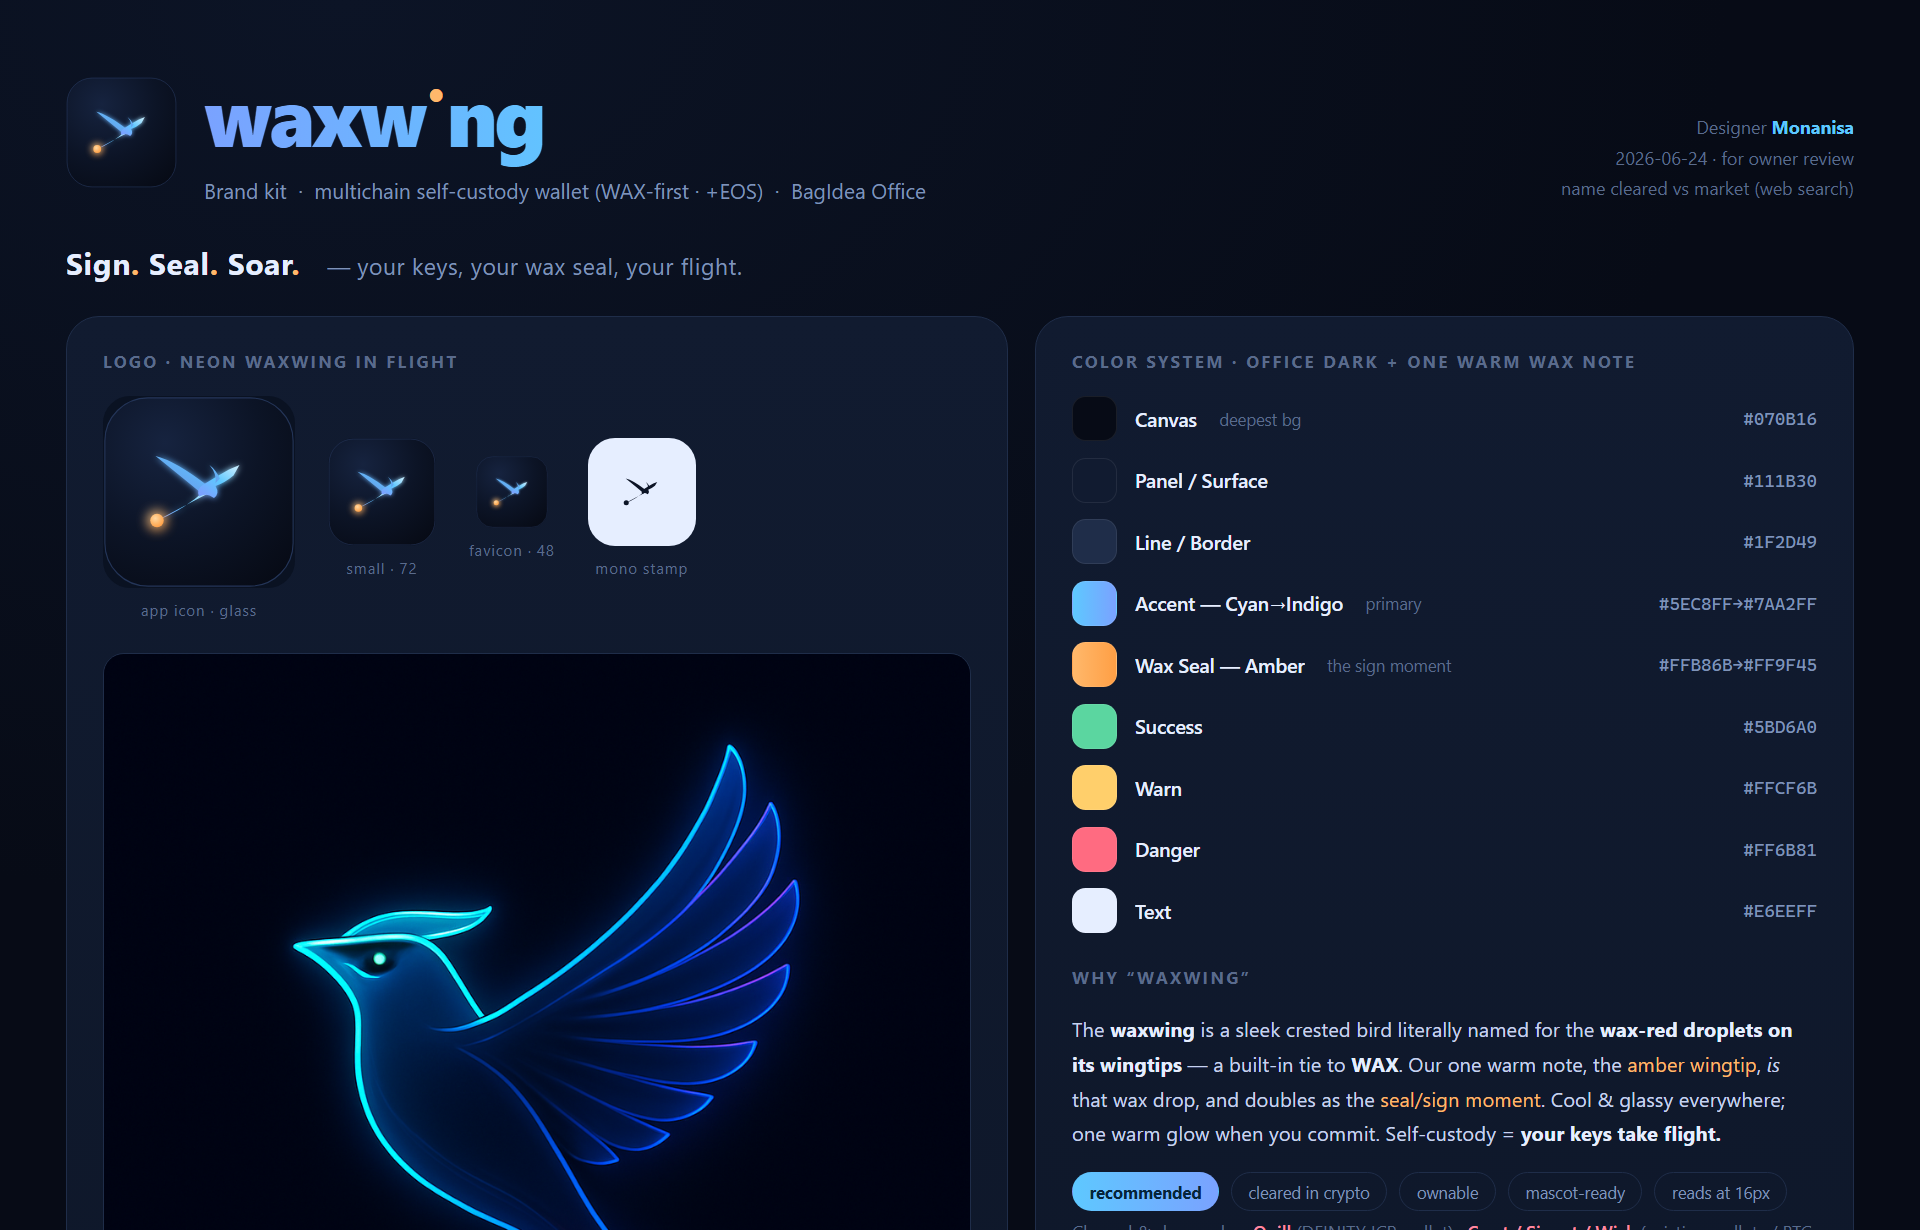
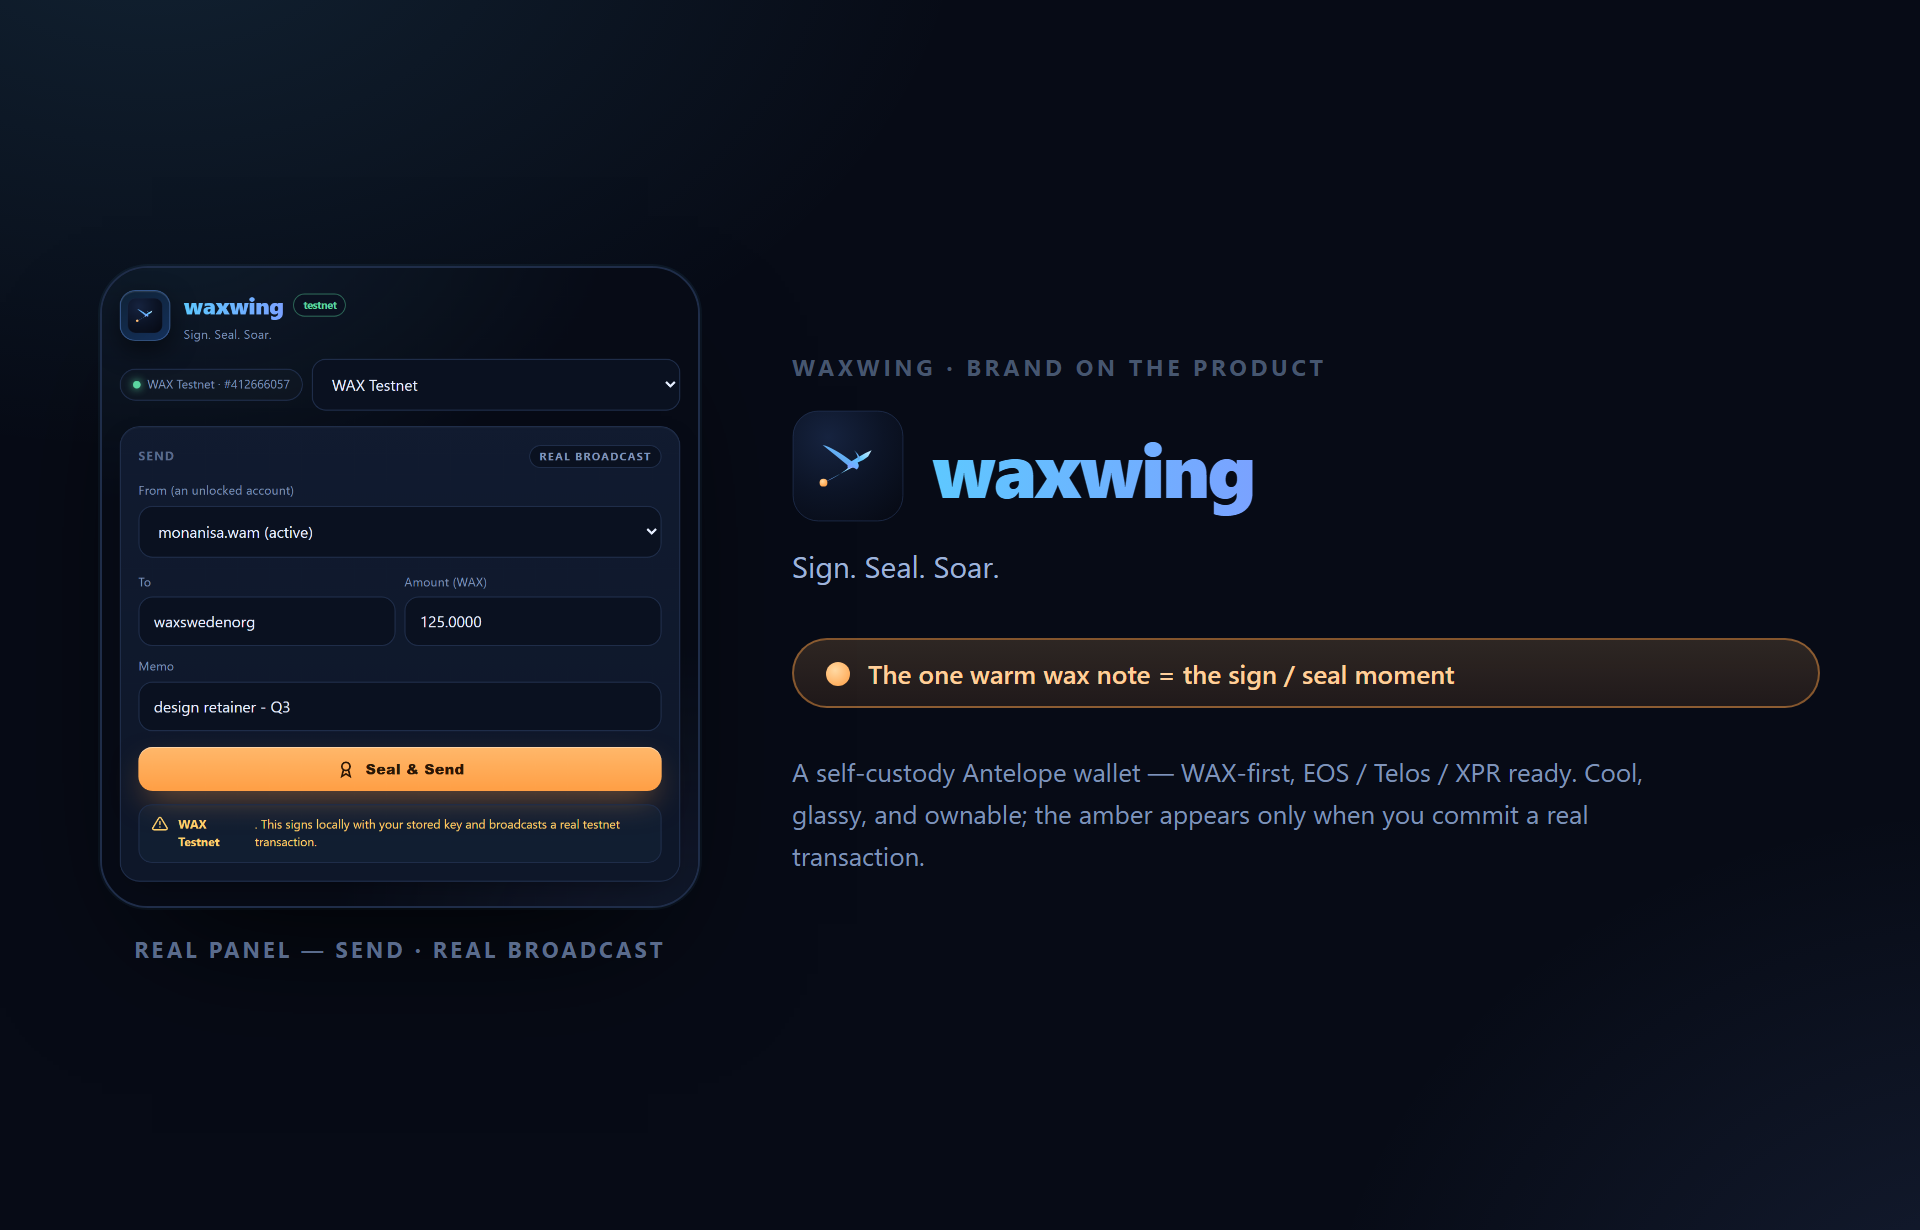
docs(preview): replace generated renders with REAL panel captures
The three preview images were AI/HTML renders. Replace them with honest
screenshots of the actual panel.html, rendered headless (no mockups):

- design/preview-screens.png  → board of the 3 real screens: Unlock (locked),
  the network switcher (WAX·EOS·Telos·XPR), and Send on REAL BROADCAST
- design/preview-identity.png → real Unlock capture + the live CSS palette
- brand/preview-brand.png     → real Send capture + lockup/tagline

Same filenames + same dimensions, so README/DESIGN/BRAND links are unchanged;
captions updated to say "real panel capture". Pixels come from panel.html
served over the live /cmd feed — no fake features shown.

diff --git a/README.md b/README.md
@@ -122,11 +122,12 @@ Full command list: run `{"cmd":"status"}`, or see [`plugin.json`](plugin.json).
 
 ## 📸 Screenshots
 
-The wallet panel — networks, keystore, sign/seal flow:
+Real screenshots of the actual panel (`panel.html`, rendered headless — not a mockup):
+**Unlock** (wallet locked) · the **network switcher** (WAX · EOS · Telos · XPR) · and a **Send** on `REAL BROADCAST`.
 
 ![waxwing panel](design/preview-screens.png)
 
-<!-- Add more screenshots / a recorded GIF of a live testnet send here as the UI evolves. -->
+<!-- Captures are rendered from the live panel.html. Add a recorded GIF of a live testnet send here as the UI evolves. -->
 
 ## 🛠 Stack
 

diff --git a/design/DESIGN.md b/design/DESIGN.md
@@ -6,7 +6,9 @@
 
 Designer: **Monanisa** · 2026-06-24 · for owner review.
 Goal: be **better than Anchor** and serve as a **showcase of BagIdea Office**.
-Boards: `preview-identity.png`, `preview-screens.png` (source: `mockup-identity.html`, `mockup-screens.html`).
+Previews: `preview-screens.png` (the 3 real panel screens — Unlock · Networks · Send) and `preview-identity.png`
+(real Unlock capture + the live palette). Both are **real `panel.html` captures**, not mockups; the original concept
+boards are still reproducible from `mockup-identity.html` / `mockup-screens.html`.
 
 > Architecture truth (from Sahara's MEMO): **non-custodial** — signing is delegated via WharfKit;
 > we never hold a private key. The identity below leans into exactly that: *“your seal, your keys.”*

diff --git a/brand/BRAND.md b/brand/BRAND.md
@@ -47,7 +47,7 @@ Designer: **Monanisa** · 2026-06-24 · for owner review.
 | `wordmark.svg` | `waxwing` wordmark; the tittle of the **i** is the amber wax-seal dot. *(Dev: outline text to paths before shipping so it's font-independent.)* |
 | `lockup.svg` | Horizontal lockup — icon + wordmark. Default for headers/README. |
 | `hero-waxwing.png` | Marketing hero / mascot illustration (raster). |
-| `preview-brand.png` | This kit on one board (overview). |
+| `preview-brand.png` | Brand on the product — a **real** `panel.html` capture (Send · real broadcast) + lockup/tagline. Source for the full kit board: `preview-brand.html`. |
 
 **Clear space:** keep ≥ the bird's head-height of padding around the lockup. **Min sizes:** icon 16px, lockup 120px wide. **Don't:** recolor the bird off-palette, drop the amber tip, stretch, or add a second warm color.
 